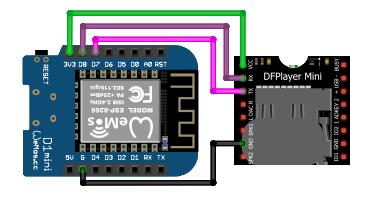
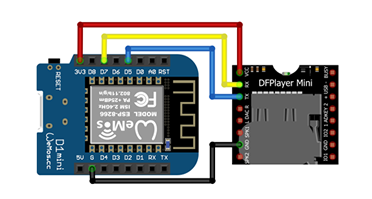
Added Touch button and improved wiring

diff --git a/src/hardware.md b/src/hardware.md
@@ -4,15 +4,23 @@
 
 #### Minimal setup (Basis)
 
-| **Quantity**  | **Name**                          |               **Link**                                |    **Notice**                 |
-| :-------:     | ----------------------------      | :-----------------------------------:                 | :----------------:            |
-|     1         | WS2812B LED Matrix 8x32           | [Amazon](https://amzn.to/3tEpc4u)                     |                               |
-|     4         | WS2812B LED Matrix CJMCU 8x8      | [Amazon](https://amzn.to/3v1RDqe)                     | alternative                   |
-|     4         | MicroMatrix by foorschtbar 8x8    | [GitHub](https://github.com/foorschtbar/MicroMatrix)  | alternative (really micro)    |
-|     1         | Wemos D1 Mini (or Clone)          | [Amazon](https://amzn.to/2Df5v7M)                     |                               |
-|     1         | Capacitor 1000uF/6.3V or higher   | [Amazon](https://amzn.to/2DktrGV)                     |                               |
+| **Quantity** | **Name**                        |                                         **Link**                                          |         **Notice**         |
+| :----------: | ------------------------------- | :---------------------------------------------------------------------------------------: | :------------------------: |
+|      1       | WS2812B LED Matrix 8x32         | [Amazon](https://amzn.to/3tEpc4u) [AliExpress](https://s.click.aliexpress.com/e/_DCu2VNp) |                            |
+|      4       | WS2812B LED Matrix CJMCU 8x8    | [Amazon](https://amzn.to/3v1RDqe) [AliExpress](https://s.click.aliexpress.com/e/_DmwWBm7) |        alternative         |
+|      4       | MicroMatrix by foorschtbar 8x8  |                   [GitHub](https://github.com/foorschtbar/MicroMatrix)                    | alternative (really micro) |
+|      1       | Wemos D1 Mini (or Clone)        | [Amazon](https://amzn.to/2Df5v7M) [AliExpress](https://s.click.aliexpress.com/e/_DefTRgB) |                            |
+|      1       | Capacitor 1000uF/6.3V or higher | [Amazon](https://amzn.to/2DktrGV) [AliExpress](https://s.click.aliexpress.com/e/_Ddqxp2j) |                            |
+
+#### Wiring
 
 ![](/hardware_basis.png)
+
+| Wemos | Matrix | Function         | Note |
+| ----- | ------ | ---------------- | ---- |
+| 5V    | VCC    | Power supply (+) |      |
+| G     | GND    | Power supply (-) |      |
+| D2    | DIN    | Data In          |      |
 
 ::: tip
 If you reduce the brightness of the matrix, powering everything via USB should be sufficient for testing.
@@ -25,44 +33,112 @@ The 1000uF capacitor prevents the initial onrush of current from damaging the pi
 
 #### LDR GL5516 Sensor upgrade (brightness lux)
 
-| **Quantity**  | **Name**           |               **Link**                   |
-| :-------:     | ------------------ | :-----------------------------------:    |
-|     1         | LDR GL5516         | [Amazon](https://amzn.to/2DlQjWb)        |
-|     1         | Widerstand 10k Ohm | [Amazon](https://amzn.to/3p6oOsQ)        |
+| **Quantity** | **Name**         |                                         **Link**                                          |
+| :----------: | ---------------- | :---------------------------------------------------------------------------------------: |
+|      1       | LDR GL5516       | [Amazon](https://amzn.to/2DlQjWb) [AliExpress](https://s.click.aliexpress.com/e/_DFp6GAX) |
+|      1       | Resistor 10k Ohm | [Amazon](https://amzn.to/3p6oOsQ) [AliExpress](https://s.click.aliexpress.com/e/_DBBuZGf) |
+
+#### Wiring
 
 ![](/hardware_gl5516.png)
 
+| Wemos | LDR GL5516 | Resistor 10k Ohm | Function                  | Note |
+| ----- | ---------- | ---------------- | ------------------------- | ---- |
+| 3V3   | Leg 1      |                  |                           |
+| G     | -          | Leg 1            |                           |
+| A0    | Leg 2      | Leg 2            | Acts as a voltage divider |
+
 #### DHT22 Sensor upgrade (Temperature & Humidity)
 
-| **Quantity**  | **Name**     |               **Link**                 |
-| :-------:     | ------------ | :-----------------------------------:  |
-|     1         | DHT22 AM2302 | [Amazon](https://amzn.to/2Po21Hx)      |
+| **Quantity** | **Name**          |                                         **Link**                                          |
+| :----------: | ----------------- | :---------------------------------------------------------------------------------------: |
+|      1       | DHT22             | [Amazon](https://amzn.to/2Po21Hx) [AliExpress](https://s.click.aliexpress.com/e/_DBbMEn1) |
+|      1       | Resistor 4.7k Ohm | [Amazon](https://amzn.to/3p6oOsQ) [AliExpress](https://s.click.aliexpress.com/e/_DBBuZGf) |
+
+#### Wiring
 
 ![](/hardware_dht22.png)
 
+| Wemos | DHT22 | Function         | Note |
+| ----- | ----- | ---------------- | ---- |
+| 3V3   | VCC   | Power supply (+) |
+| G     | GND   | Power supply (-) |
+| D1    | DATA  |                  |
+
 #### BME280 Sensor upgrade (Temperature, Humidity & Pressure)
 
-| **Quantity**  | **Name** |               **Link**                 |
-| :-------:     | -------- | :-----------------------------------:  |
-|     1         | BME280   | [Amazon](https://amzn.to/2Ta89Hy)      |
+| **Quantity** | **Name**    |                                         **Link**                                          |
+| :----------: | ----------- | :---------------------------------------------------------------------------------------: |
+|      1       | BME280 3.3V | [Amazon](https://amzn.to/2Ta89Hy) [AliExpress](https://s.click.aliexpress.com/e/_DkqjVp1) |
+
+#### Wiring
 
 ![](/hardware_bme280.png)
 
+| Wemos | BME280 | Function         | Note |
+| ----- | ------ | ---------------- | ---- |
+| 3V3   | VCC    | Power supply (+) |      |
+| G     | GND    | Power supply (-) |      |
+| D1    | SCL    | Clock            |      |
+| D3    | SDA    | Data             |      |
+
 #### BME680 Sensor upgrade (Temperature, Humidity, Pressure & Gas)
 
-| **Quantity**  | **Name** |               **Link**                 |
-| :-------:     | -------- | :-----------------------------------:  |
-|     1         | BME680   | [Amazon](https://amzn.to/3GfOHMA)      |
+| **Quantity** | **Name** |                                         **Link**                                          |
+| :----------: | -------- | :---------------------------------------------------------------------------------------: |
+|      1       | BME680   | [Amazon](https://amzn.to/3GfOHMA) [AliExpress](https://s.click.aliexpress.com/e/_DlgIMiP) |
+
+#### Wiring
 
 ![](/hardware_bme680.png)
 
+| Wemos | BME680 | Function         | Note |
+| ----- | ------ | ---------------- | ---- |
+| 3V3   | VCC    | Power supply (+) |      |
+| G     | GND    | Power supply (-) |      |
+| D1    | SCL    | Clock            |      |
+| D3    | SDA    | Data             |      |
+
 #### DFPlayer Mini upgrade (MP3 Player)
 
-| **Quantity**  | **Name**                 |               **Link**                 |
-| :-------:     | ------------------------ | :-----------------------------------:  |
-|     1         | DFPlayer Mini MP3 Player | [Amazon](https://amzn.to/3jcbmz7)      |
+| **Quantity** | **Name**                 |                                         **Link**                                          |
+| :----------: | ------------------------ | :---------------------------------------------------------------------------------------: |
+|      1       | DFPlayer Mini MP3 Player | [Amazon](https://amzn.to/3jcbmz7) [AliExpress](https://s.click.aliexpress.com/e/_DBhkE8L) |
+
+#### Wiring
 
 ![](/hardware_dfplayer.png)
+
+| Wemos | DFPlayer Mini | Function         | Note |
+| ----- | ------------- | ---------------- | ---- |
+| 3V3   | VCC           | Power supply (+) |      |
+| G     | GND           | Power supply (-) |      |
+| D7    | RX            | Data In          |      |
+| D5    | TX            | Data Out         |      |
+
+#### Touch Buttons upgrade (Touch Sensor)
+
+| **Quantity** | **Name**            |                                         **Link**                                          |
+| :----------: | ------------------- | :---------------------------------------------------------------------------------------: |
+|      1       | TTP223 Touch Sensor | [Amazon](https://amzn.to/3UMnzvu) [AliExpress](https://s.click.aliexpress.com/e/_DeEyaxZ) |
+
+#### Wiring
+
+![xxx](/hardware_touchbtn.png)
+
+| Wemos | Button left | Button middle | Button right | Function         | Note            |
+| ----- | ----------- | ------------- | ------------ | ---------------- | --------------- |
+| 3.3V  | VCC         | VCC           | VCC          | Power supply (+) |
+| G     | GND         | GND           | GND          | Power supply (-) |
+| D0    | I/O         | -             | -            | Touch signal     |
+| D4    | -           | I/O           | -            | Touch signal     | Solder bridge A |
+| D8    | -           | -             | I/O          | Touch signal     |
+
+:::warning Disclaimer
+The touch sensors have two solder bridges on the board which can be connected. This allows switching between active high (when pressing high) and active low (when pressing low). This is absolutely necessary for the middle sensor (Btn 2), otherwise the wemos will not start. To prevent this, bridge A of the middle touch sensor must be closed. This sets the I/O pin to active low. Other touch sensors are not recommended, because they have no possibility to be set to active low.
+:::
+
+TTP223 Image for Fritzing by [rbricheno](https://github.com/rbricheno).
 
 ## 3D Printing Files
 
@@ -71,13 +147,18 @@ by PlastikJunkies
 
 #### Downloads
 
--   [Thingiverse](https://www.thingiverse.com/thing:3559014)
--   [Local download](/pixel_it_case.zip)
+- [Thingiverse](https://www.thingiverse.com/thing:3559014)
+- [Local download](/pixel_it_case.zip)
+
+### AWTRIX Case (Discontinued project!)
+
+- [Thingiverse](https://www.thingiverse.com/thing:4749750)
 
 #### Makes
 
-Make sure to check out this discussion page for some inspiration (german).  
--    [Meine PixelIt](https://github.com/pixelit-project/PixelIt/discussions/48)
+Make sure to check out this discussion page for some inspiration.
+
+- [Show your PixelIt](https://github.com/pixelit-project/PixelIt/discussions/48)
 
 ## Troubleshooting
 

diff --git a/src/index.md b/src/index.md
@@ -4,44 +4,46 @@
 
 ## Features
 
--   [Webinterface](webinterface.html)
--   [REST-API](api.html)
--   [Node-Red Node](tools.html#node-red)
--   [Pixel Creator](tools.html#pixel-creator)
--   [Pixel Gallery](tools.html#pixel-gallery)
--   [ioBroker Adapter](iobroker.html)
--   Expandable
--   Customizable
--   Inexpensive
--   [Open-Source](https://github.com/pixelit-project) :heart:
+- [Webinterface](webinterface.html)
+- [REST-API](api.html)
+- [Node-Red Node](tools.html#node-red)
+- [Pixel Creator](tools.html#pixel-creator)
+- [Pixel Gallery](tools.html#pixel-gallery)
+- [ioBroker Adapter](iobroker.html)
+- Expandable
+- Customizable
+- Inexpensive
+- [Open-Source](https://github.com/pixelit-project) :heart:
 
 ## Supported hardware
 
 - MCU
-  -   [Wemos D1 mini](hardware.html#minimal-setup-basis)
-  -   ESP32 (Experimental)
+  - [Wemos D1 mini](hardware.html#minimal-setup-basis)
+  - [NodeMCU v2](hardware.html#minimal-setup-basis)
+  - [Generic ESP8266](hardware.html#minimal-setup-basis)
+  - [Generic ESP32](hardware.html#minimal-setup-basis)
 - Matrix
-  -   [Pixelmatrix (8x32)](hardware.html#minimal-setup-basis)
-  -   [Pixelmatrix (CJMCU)(4x 8x8)](hardware.html#minimal-setup-basis)
-  -   [MicroMatrix by foorschtbar (4x 8x8)](hardware.html#minimal-setup-basis)
+  - [Pixelmatrix (8x32)](hardware.html#minimal-setup-basis)
+  - [Pixelmatrix (CJMCU)(4x 8x8)](hardware.html#minimal-setup-basis)
+  - [MicroMatrix by foorschtbar (4x 8x8)](hardware.html#minimal-setup-basis)
 - Extensions
-  -   [LDR GL5516](hardware.html#ldr-gl5516-sensor-upgrade-brightness-lux)
-  -   [DHT22](hardware.html#dht22-sensor-upgrade-temperature-humidity)
-  -   [BMP280](hardware.html#bme280-sensor-upgrade-temperature-humidity-pressure)
-  -   [BME680](hardware.html#bme680-sensor-upgrade-temperature-humidity-pressure-gas)
-  -   [DFPlayer Mini](hardware.html#dfplayer-mini-upgrade-mp3-player)
+  - [LDR GL5516](hardware.html#ldr-gl5516-sensor-upgrade-brightness-lux)
+  - [DHT22](hardware.html#dht22-sensor-upgrade-temperature-humidity)
+  - [BMP280](hardware.html#bme280-sensor-upgrade-temperature-humidity-pressure)
+  - [BME680](hardware.html#bme680-sensor-upgrade-temperature-humidity-pressure-gas)
+  - [DFPlayer Mini](hardware.html#dfplayer-mini-upgrade-mp3-player)
+  - [Touch Buttons](hardware.html#touch-buttons-upgrade-touch-sensor)
 
 ## Getting started
 
-* Start with the [hardware](hardware.html) and checkout the [parts list](hardware.html#parts-list). 
-* Then you can flash the [firmware](firmware.html) and setup the matrix in the [webinterface](webinterface.html). 
-* At last step, you send your own screens to the [API](api.html) or use [Node-RED](nodered.html) (recommanded) or [ioBroker](iobroker.html) to create and send your own screens to your PixelIt.
-
+- Start with the [hardware](hardware.html) and checkout the [parts list](hardware.html#parts-list).
+- Then you can flash the [firmware](firmware.html) and setup the matrix in the [webinterface](webinterface.html).
+- At last step, you send your own screens to the [API](api.html) or use [Node-RED](nodered.html) (recommanded) or [ioBroker](iobroker.html) to create and send your own screens to your PixelIt.
 
 ## Support
 
 Any problems? Checkout the [Troubleshooting](troubleshooting.html) section. If you still need help or just connect to other PixelIt users, checkout your forum or the Telegram and Discord groups.
 
-* [![](https://img.shields.io/github/discussions/pixelit-project/PixelIt?&logo=github&label=GitHub%20Discussions&style=for-the-badge)](https://github.com/pixelit-project/PixelIt/discussions)
-* [![](https://img.shields.io/endpoint?label=Telegram&style=for-the-badge&url=https%3A%2F%2Frunkit.io%2Fdamiankrawczyk%2Ftelegram-badge%2Fbranches%2Fmaster%3Furl%3Dhttps%3A%2F%2Ft.me%2Fpixelitdisplay)](https://t.me/pixelitdisplay)
-* [![](https://img.shields.io/discord/558849582377861122?logo=discord&label=Discrod&style=for-the-badge)](https://discord.gg/JHE9P9zczW)
+- [![](https://img.shields.io/github/discussions/pixelit-project/PixelIt?&logo=github&label=GitHub%20Discussions&style=for-the-badge)](https://github.com/pixelit-project/PixelIt/discussions)
+- [![](https://img.shields.io/endpoint?label=Telegram&style=for-the-badge&url=https%3A%2F%2Frunkit.io%2Fdamiankrawczyk%2Ftelegram-badge%2Fbranches%2Fmaster%3Furl%3Dhttps%3A%2F%2Ft.me%2Fpixelitdisplay)](https://t.me/pixelitdisplay)
+- [![](https://img.shields.io/discord/558849582377861122?logo=discord&label=Discrod&style=for-the-badge)](https://discord.gg/JHE9P9zczW)

diff --git a/src/firmware.md b/src/firmware.md
@@ -1,34 +1,40 @@
 # Firmware
 
-* [PixelIt Firmware](https://github.com/pixelit-project/PixelIt/releases).
+- [PixelIt Firmware](https://github.com/pixelit-project/PixelIt/releases).
 
 Note: For Wemos D1 mini (Clone) (see [Part list](hardware.html#parts-list)) you need the `XXX_d1_mini.bin` firmware.
 
 ## Flashing (Windows)
 
-* [ESPEasy Flasher](https://www.bastelbunker.de/wp-content/uploads/ESPEasy_Flasher.zip)
+- [ESPEasy Flasher](https://www.bastelbunker.de/wp-content/uploads/ESPEasy_Flasher.zip)
 
-To flash the Wemos D1 Mini (or simillar ESP8266 board) we use the ESPEasy Flasher for simplicity. After unpacking the ESPEasy_Flasher.zip only the current `firmware_XXX.bin` must be copied into the folder of the ESPEasy Flasher.  
-  
+To flash the Wemos D1 Mini (or simillar ESP8266 board) we use the ESPEasy Flasher for simplicity. After unpacking the ESPEasy_Flasher.zip only the current `firmware_XXX.bin` must be copied into the folder of the ESPEasy Flasher.
+
 Now we have two dropdown menus after starting the FlashESP8266.exe:
 ![](/flash_esp8266.png)
 
 #### COM-Port
+
 Here you have to select the port where you have connected your Wemos D1 mini (or simillar ESP8266 board).
 
 #### Firmware
+
 Now here we have two items the `CleanFlash.bin` and `firmware_XXX.bin`:
-- `CleanFlash.bin` Has the task to zero the complete flash of the ESP, which can be very helpful if the ESP was already used for other projects and makes problems with the current project (e.g. no hotspot opens) 
+
+- `CleanFlash.bin` Has the task to zero the complete flash of the ESP, which can be very helpful if the ESP was already used for other projects and makes problems with the current project (e.g. no hotspot opens)
 - `firmware_XXX.bin` Is the firmware of the PixelIt :)
 
-Now you just have to press the Flash button and wait a bit.   
+Now you just have to press the Flash button and wait a bit.
 
 ## Flashing (macOS)
+
 #### Install esptool
+
 Install esptool (e.g. via homebrew)  
 `brew install esptool`
 
 #### Find your board
+
 Connect your board via USB, and get the device address by running:  
 `ls /dev/tty*usb*`
 
@@ -36,6 +42,7 @@ This should output something like:
 `/dev/tty.usbserial-1337`
 
 #### Erase and flash the firmware
+
 Erase flash  
 `esptool.py --port /dev/tty.XXX erase_flash`
 
@@ -43,11 +50,12 @@ Flash firmware
 `esptool.py --port /dev/tty.XXX --baud 1000000 write_flash --flash_size=4MB -fm dio 0 firmware_XXX.bin`
 
 ## Setup
-After flashing, the PixelIt should now set up its own WiFi AccessPoint (SSID: `PIXELIT`). If you have connected to this AP, you can enter and save the WiFi data of your network. If everything has worked and the PixelIt is connected to the WiFi and the Internet, you should now see a time.  
-  
-Now you can connect to the [Webinterface](webinterface.html) of PixelIt. Find the IP-Adress in your routers DHCP lease list or try the default hostname of PixelIt `pixelit` to finish the setup in the [Options](webinterface.html#options).  
-  
-Now the next step should be to look at the [Tools](tools.html) to see the available options for creating ads (most called *Screens* here).
+
+After flashing, the PixelIt should now set up its own WiFi AccessPoint (SSID: `PIXELIT`). If you have connected to this AP, you can enter and save the WiFi data of your network. If everything has worked and the PixelIt is connected to the WiFi and the Internet, you should now see a time.
+
+Now you can connect to the [Webinterface](webinterface.html) of PixelIt. Find the IP-Adress in your routers DHCP lease list or try the default hostname of PixelIt `pixelit` to finish the setup in the [Options](webinterface.html#options).
+
+Now the next step should be to look at the [Tools](tools.html) to see the available options for creating ads (most called _Screens_ here).
 
 ## Troubleshooting
 
